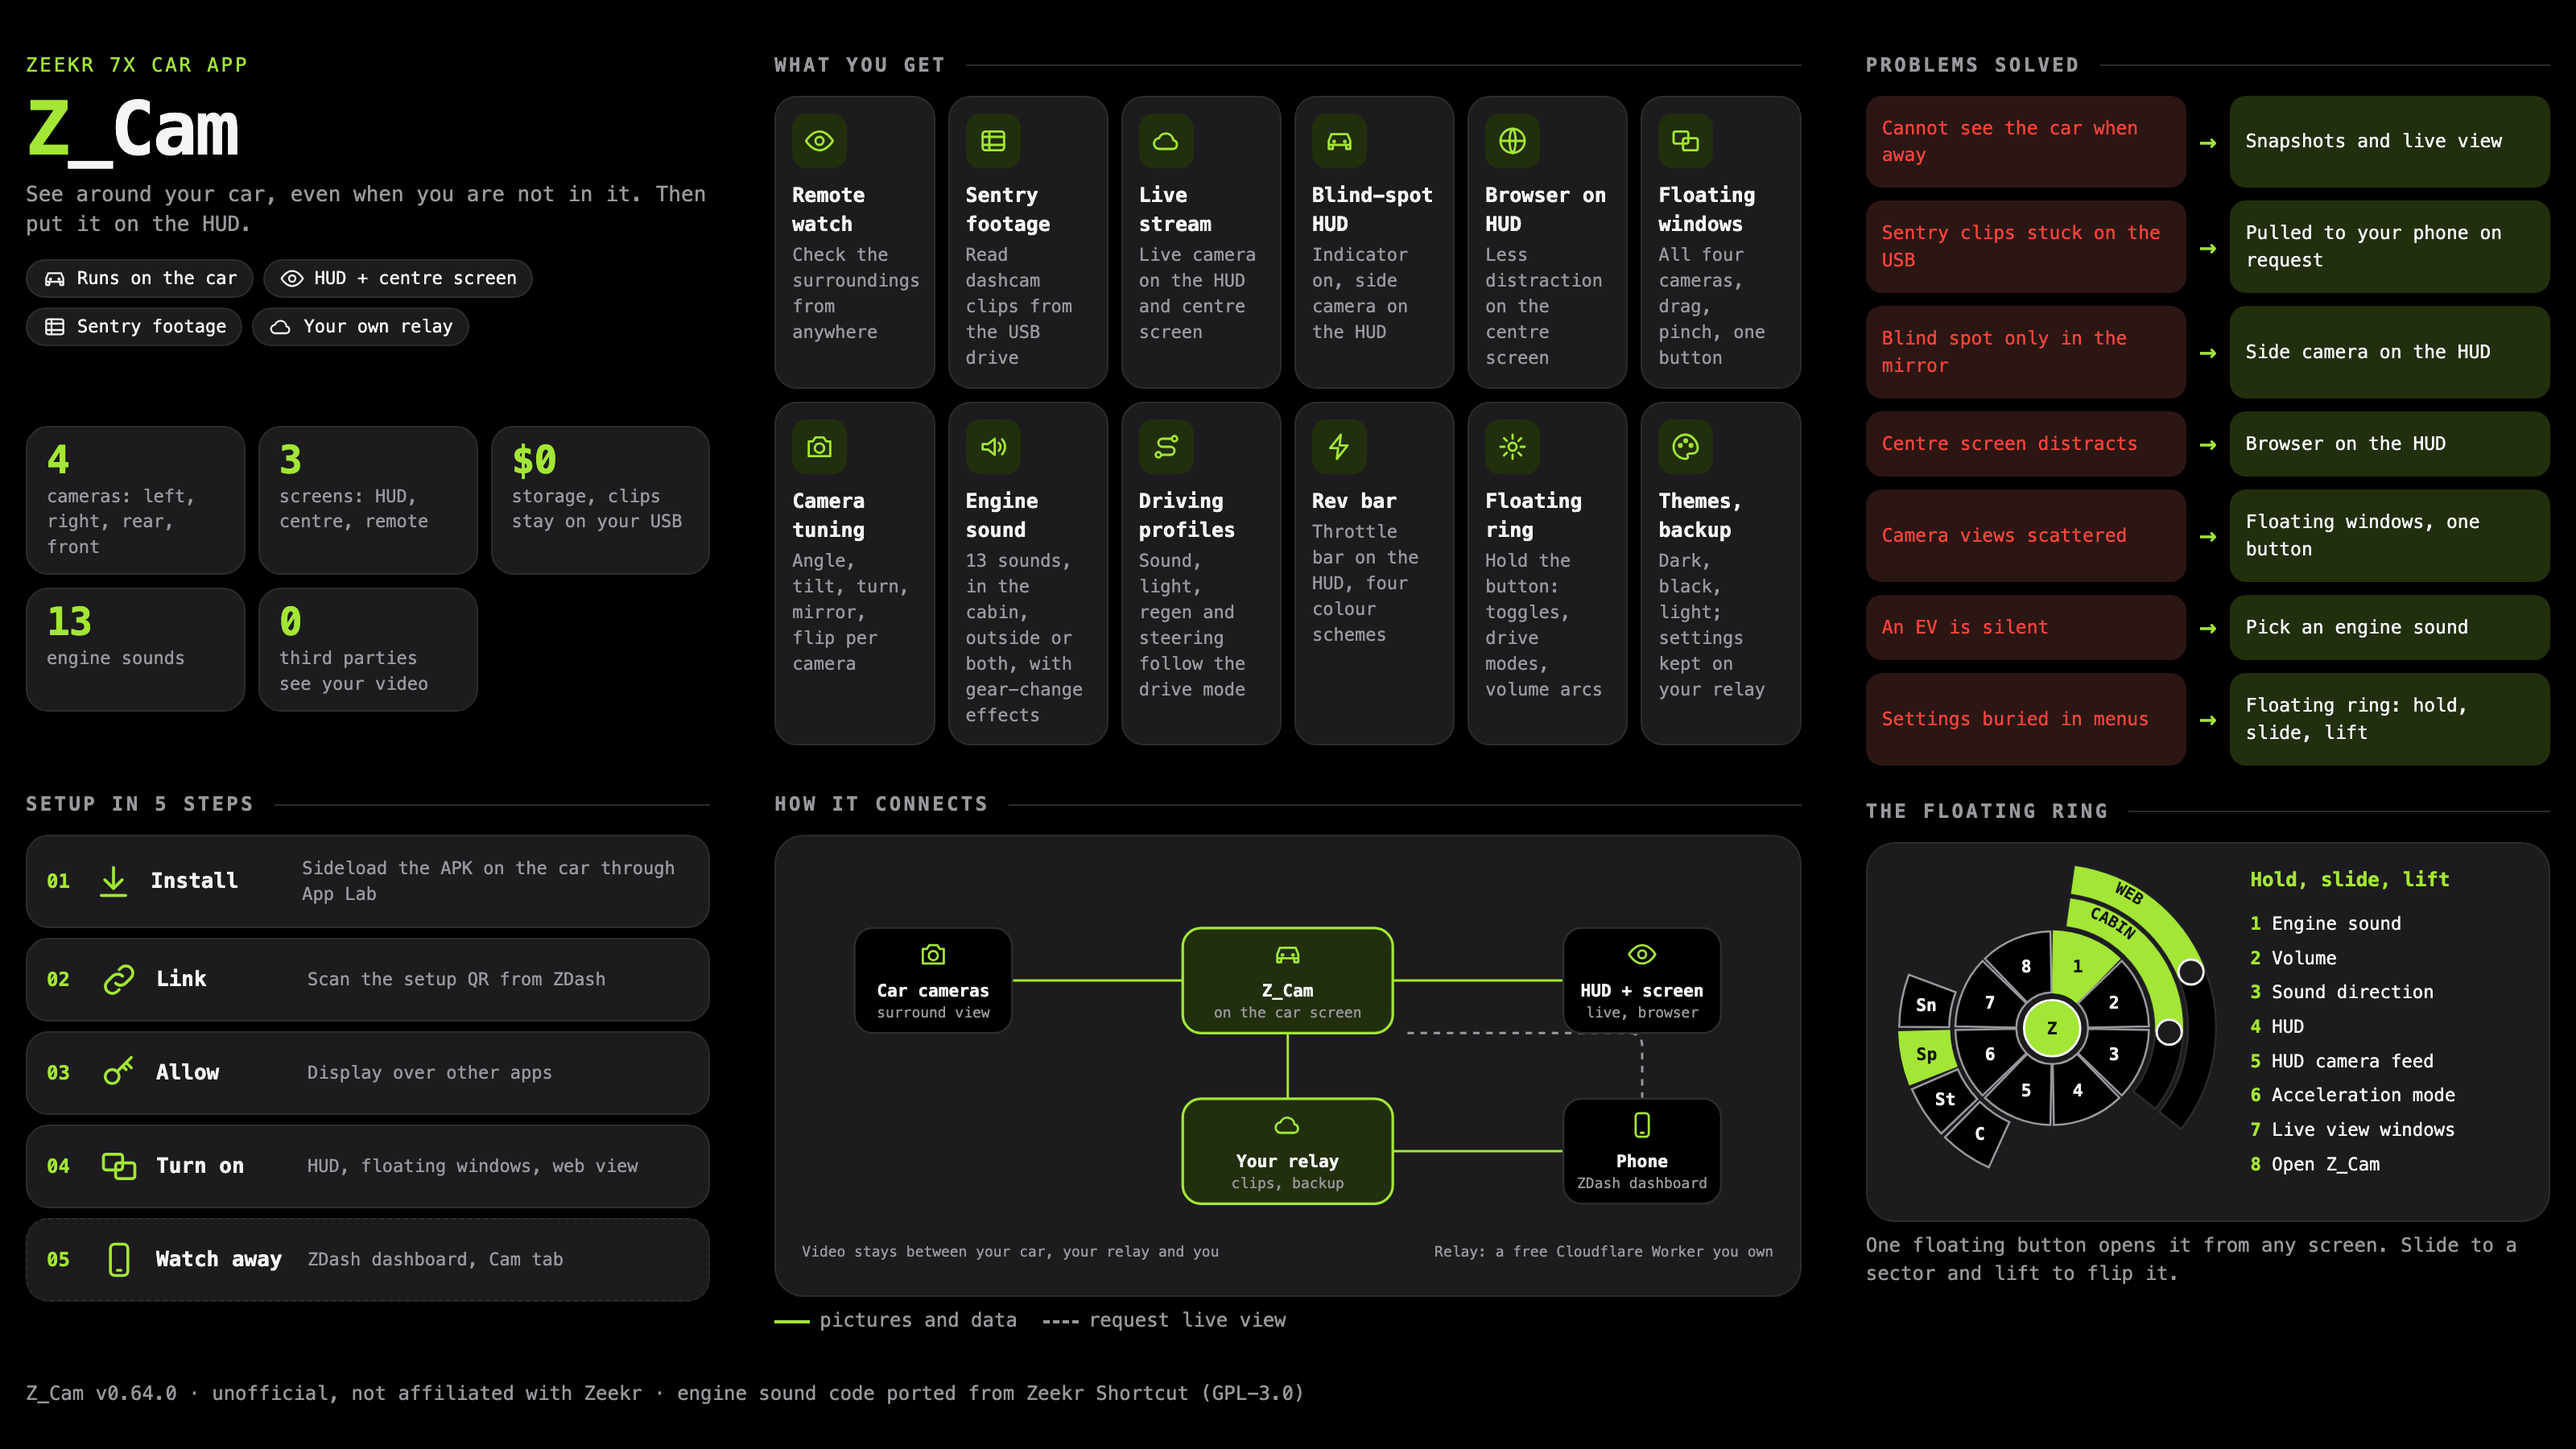
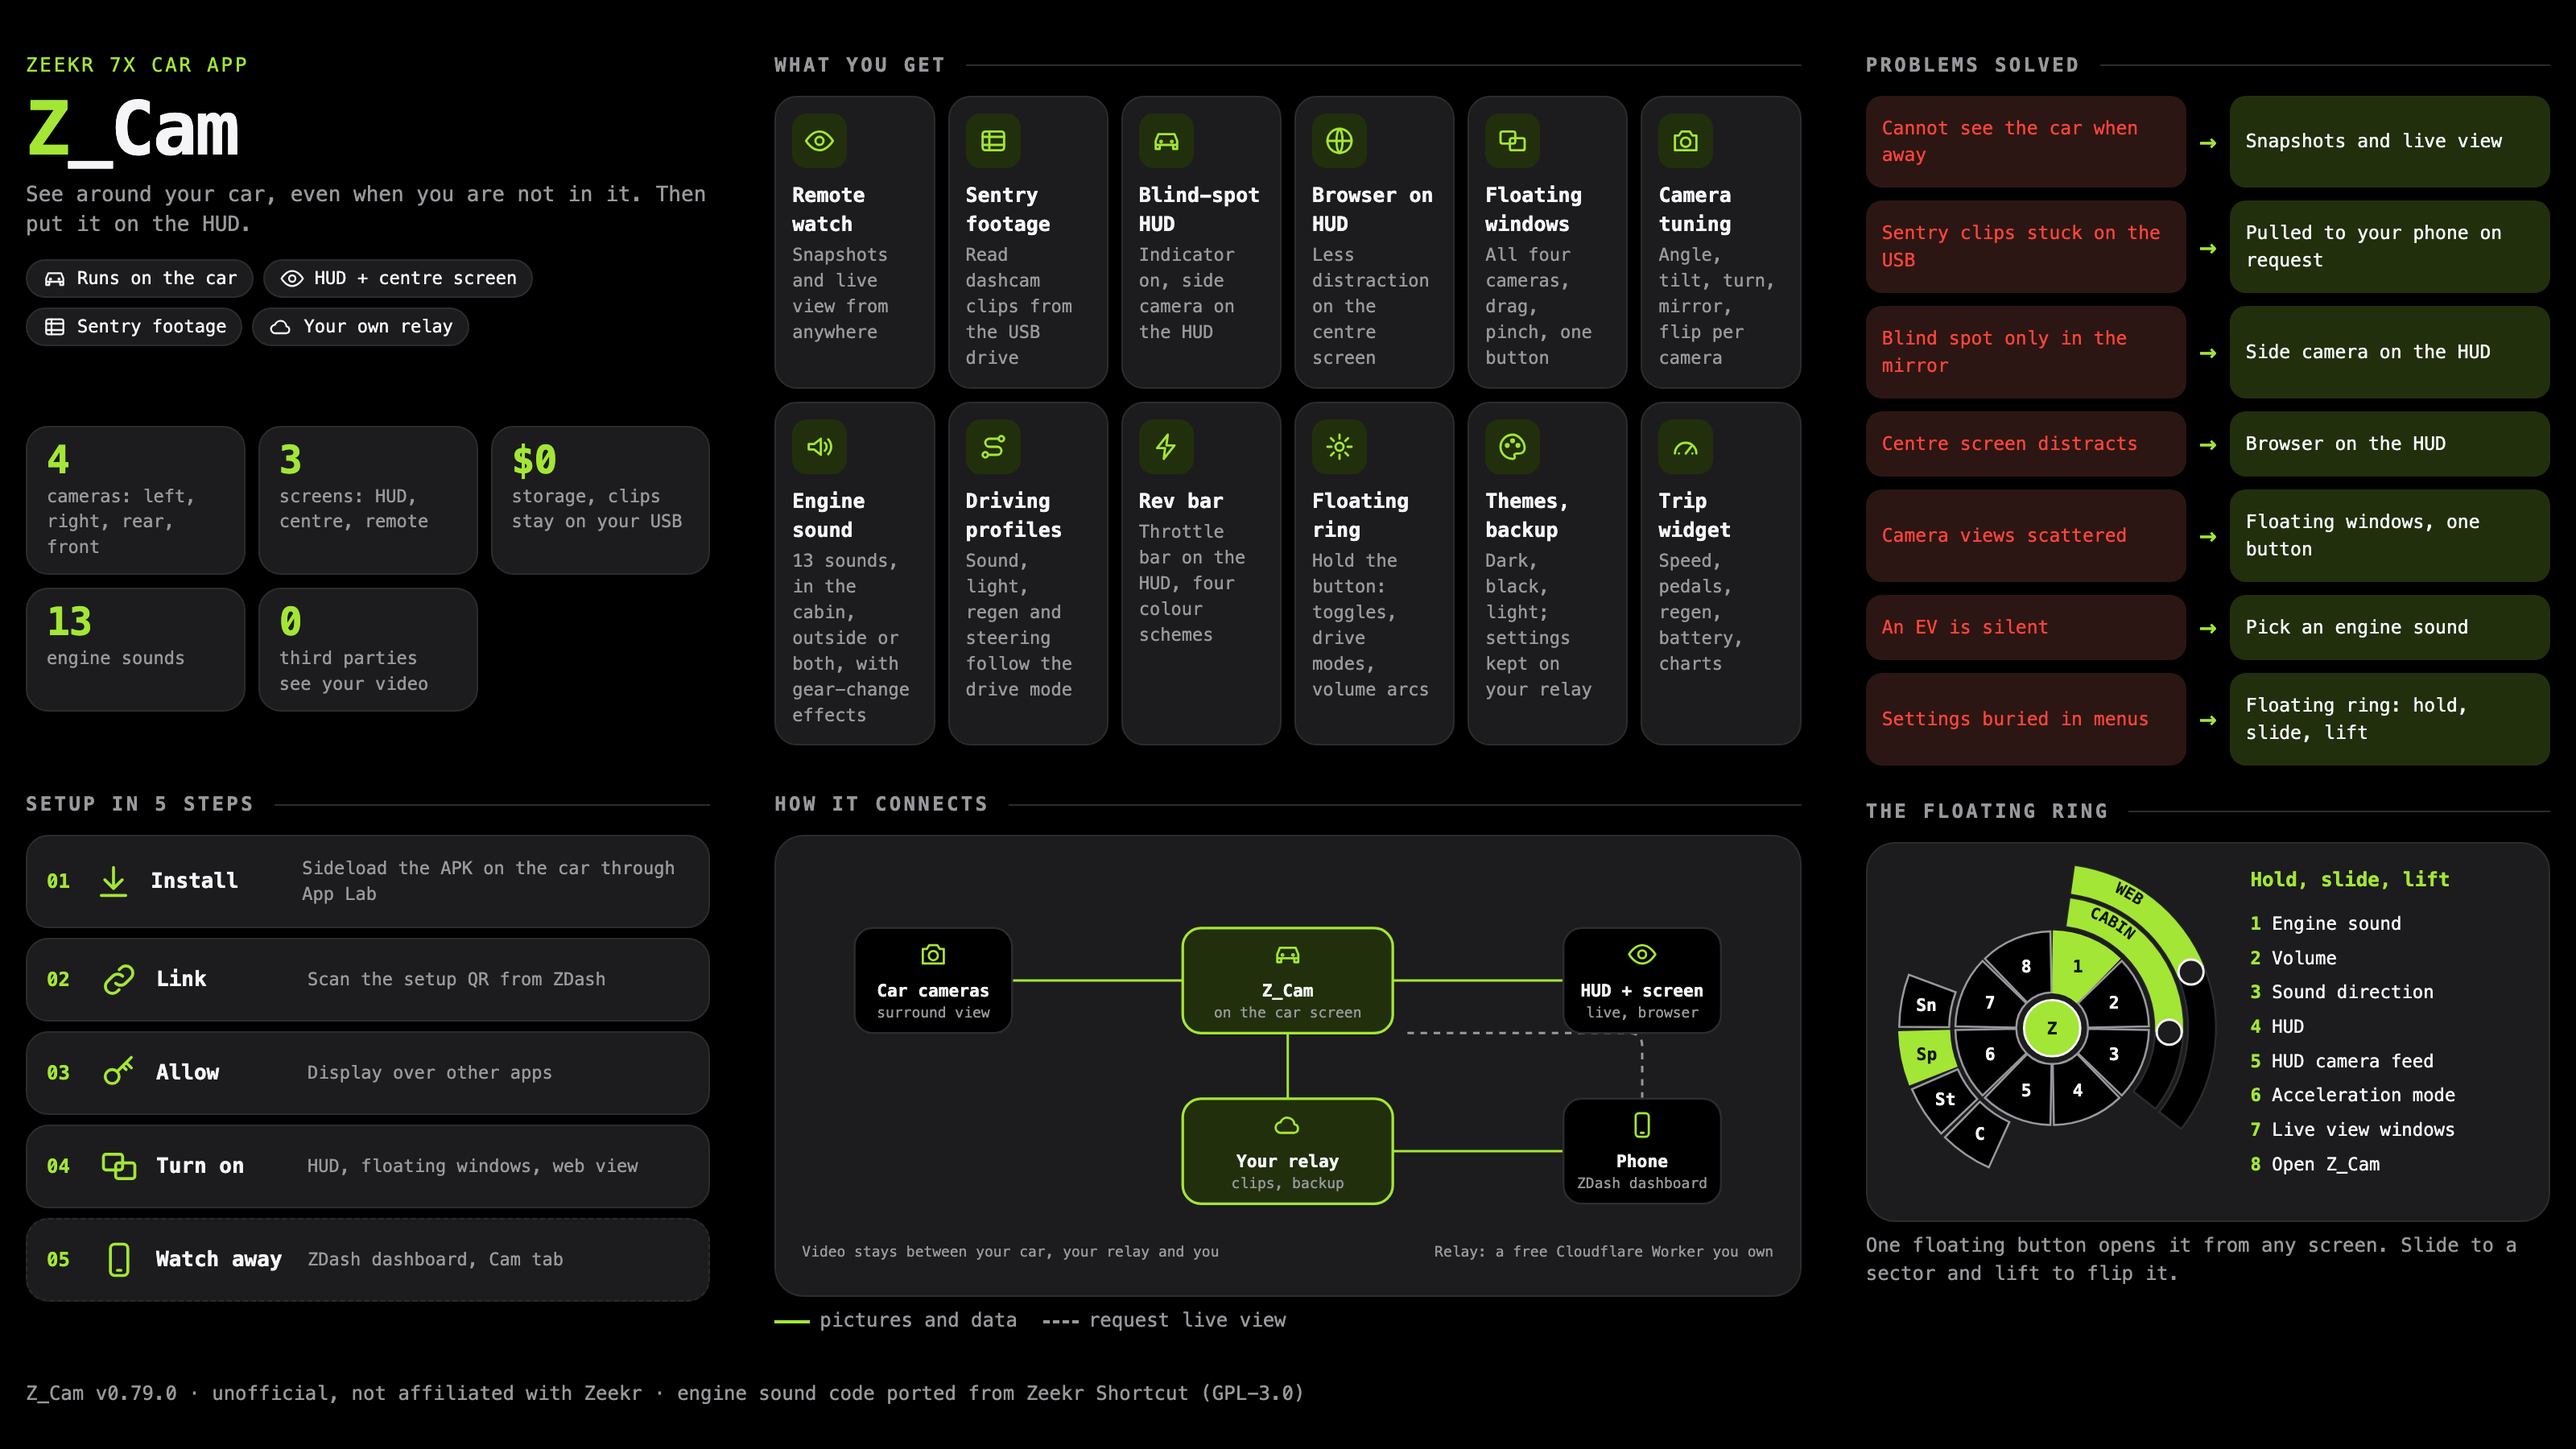
One-pager: add Trip widget, update to v0.79.0

diff --git a/docs/zcam-onepager.html b/docs/zcam-onepager.html
@@ -181,6 +181,7 @@ footer{color:var(--muted);font-size:12px;font-family:var(--mono)}
     <symbol id="bell"viewBox="0 0 24 24"><path d="M6 17V11a6 6 0 0 1 12 0v6l1.5 2h-15zM10 21h4"/></symbol>
       <symbol id="globe" viewBox="0 0 24 24"><circle cx="12" cy="12" r="9"/><path d="M3 12h18M12 3c3 3 3 15 0 18M12 3c-3 3-3 15 0 18"/></symbol>
     <symbol id="sound" viewBox="0 0 24 24"><path d="M4 10v4h4l5 4V6L8 10zM16 9a4 4 0 0 1 0 6M18.5 6.5a8 8 0 0 1 0 11"/></symbol>
+    <symbol id="gauge" viewBox="0 0 24 24"><path d="M4 17a8 8 0 1 1 16 0M12 17l4-5M7 17h.01M17 17h.01M12 9v.01"/></symbol>
     <symbol id="windows" viewBox="0 0 24 24"><rect x="3" y="5" width="11" height="9" rx="1.5"/><rect x="10" y="10" width="11" height="9" rx="1.5"/></symbol>
   </defs>
 </svg>
@@ -209,9 +210,8 @@ footer{color:var(--muted);font-size:12px;font-family:var(--mono)}
   <section>
     <h2>What you get</h2>
     <div class="tiles">
-      <div class="tile"><div class="ic"><svg class="i"><use href="#eye"/></svg></div><b>Remote watch</b><span>Check the surroundings from anywhere</span></div>
+      <div class="tile"><div class="ic"><svg class="i"><use href="#eye"/></svg></div><b>Remote watch</b><span>Snapshots and live view from anywhere</span></div>
       <div class="tile"><div class="ic"><svg class="i"><use href="#film"/></svg></div><b>Sentry footage</b><span>Read dashcam clips from the USB drive</span></div>
-      <div class="tile"><div class="ic"><svg class="i"><use href="#cloud"/></svg></div><b>Live stream</b><span>Live camera on the HUD and centre screen</span></div>
       <div class="tile"><div class="ic"><svg class="i"><use href="#car"/></svg></div><b>Blind-spot HUD</b><span>Indicator on, side camera on the HUD</span></div>
       <div class="tile"><div class="ic"><svg class="i"><use href="#globe"/></svg></div><b>Browser on HUD</b><span>Less distraction on the centre screen</span></div>
       <div class="tile"><div class="ic"><svg class="i"><use href="#windows"/></svg></div><b>Floating windows</b><span>All four cameras, drag, pinch, one button</span></div>
@@ -221,6 +221,7 @@ footer{color:var(--muted);font-size:12px;font-family:var(--mono)}
       <div class="tile"><div class="ic"><svg class="i"><use href="#bolt"/></svg></div><b>Rev bar</b><span>Throttle bar on the HUD, four colour schemes</span></div>
       <div class="tile"><div class="ic"><svg class="i"><use href="#auto"/></svg></div><b>Floating ring</b><span>Hold the button: toggles, drive modes, volume arcs</span></div>
       <div class="tile"><div class="ic"><svg class="i"><use href="#palette"/></svg></div><b>Themes, backup</b><span>Dark, black, light; settings kept on your relay</span></div>
+      <div class="tile"><div class="ic"><svg class="i"><use href="#gauge"/></svg></div><b>Trip widget</b><span>Speed, pedals, regen, battery, charts</span></div>
     </div>
   </section>
 
@@ -293,7 +294,7 @@ footer{color:var(--muted);font-size:12px;font-family:var(--mono)}
   </section>
   </div>
 
-  <footer>Z_Cam v0.64.0 &middot; unofficial, not affiliated with Zeekr &middot; engine sound code ported from Zeekr Shortcut (GPL-3.0)</footer>
+  <footer>Z_Cam v0.79.0 &middot; unofficial, not affiliated with Zeekr &middot; engine sound code ported from Zeekr Shortcut (GPL-3.0)</footer>
 </main>
 </body>
 </html>
